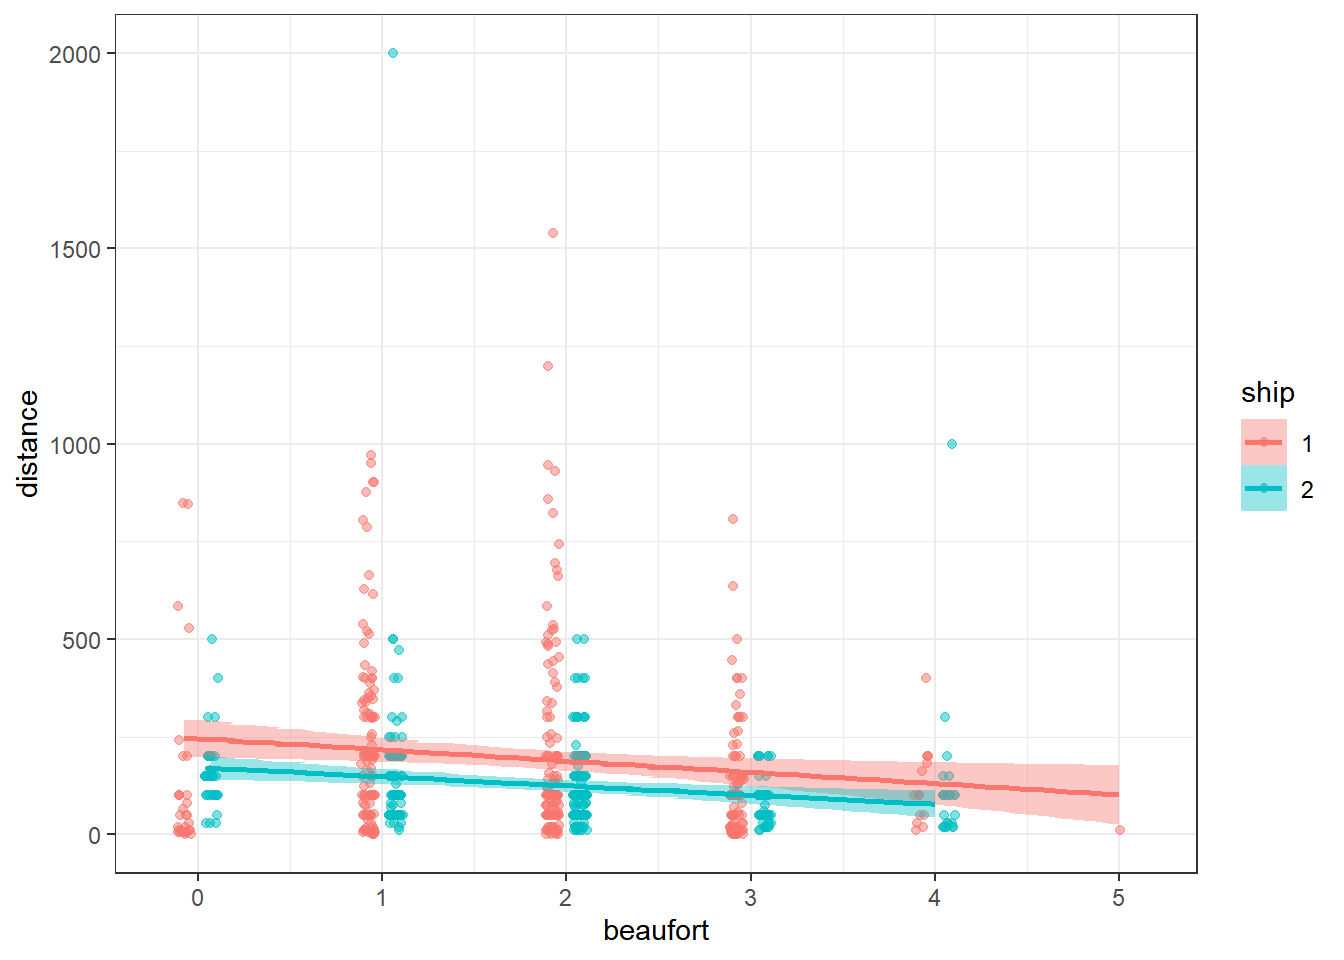
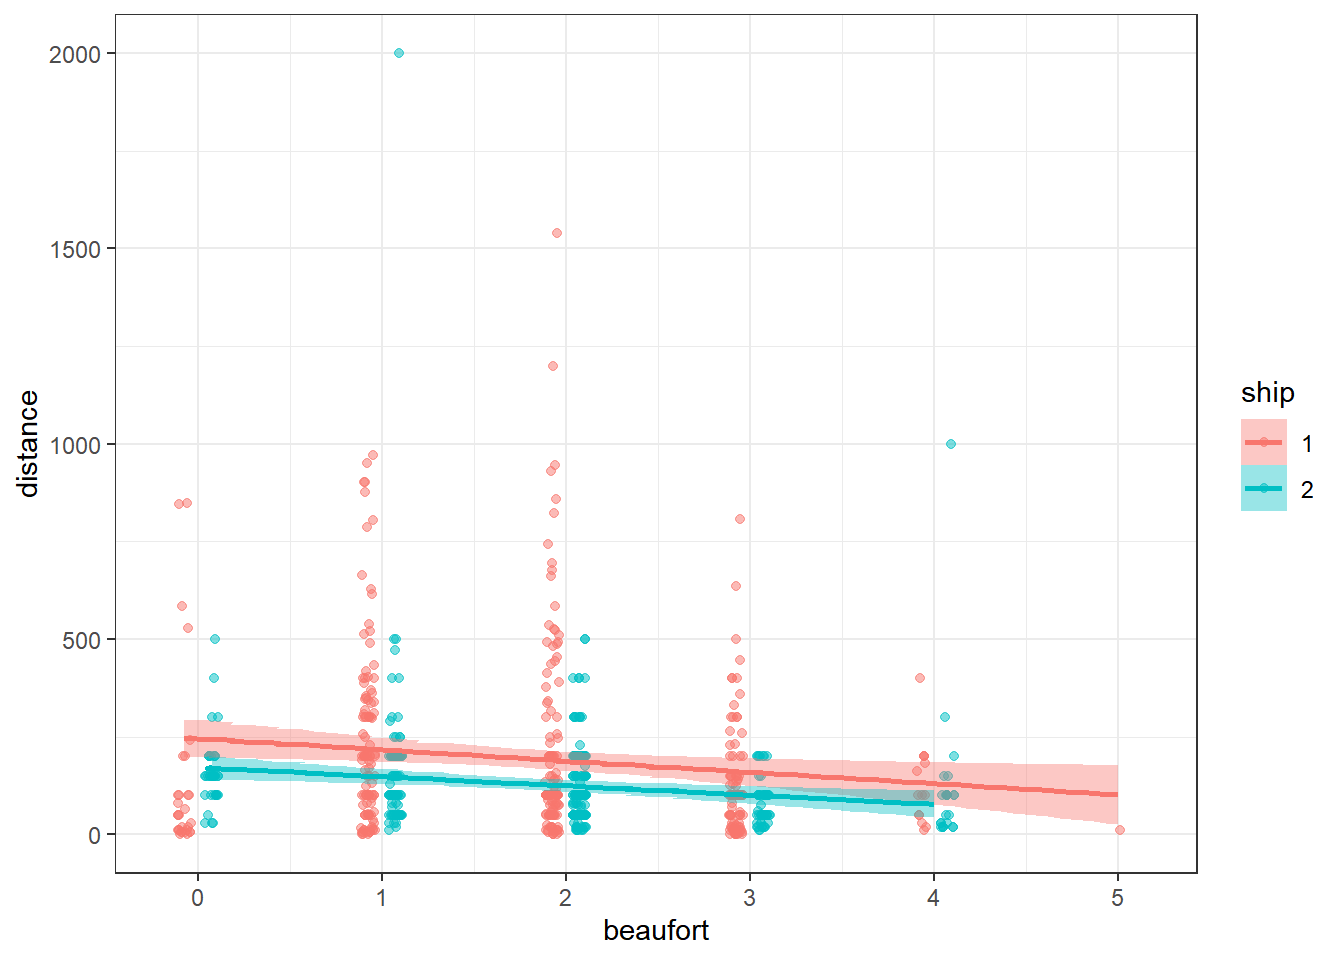
html report

diff --git a/docs/VariablesAmbientales.html b/docs/VariablesAmbientales.html
@@ -120,9 +120,8 @@ ul.task-list li input[type="checkbox"] {
     <h2 id="toc-title">On this page</h2>
    
   <ul>
-  <li><a href="#mapa-del-área-en-contexto" id="toc-mapa-del-área-en-contexto" class="nav-link active" data-scroll-target="#mapa-del-área-en-contexto"><span class="header-section-number">1</span> Mapa del área en contexto</a></li>
-  <li><a href="#escala-período" id="toc-escala-período" class="nav-link" data-scroll-target="#escala-período"><span class="header-section-number">2</span> Escala: período</a></li>
-  <li><a href="#escala-estacional" id="toc-escala-estacional" class="nav-link" data-scroll-target="#escala-estacional"><span class="header-section-number">3</span> Escala estacional</a></li>
+  <li><a href="#escala-período" id="toc-escala-período" class="nav-link active" data-scroll-target="#escala-período"><span class="header-section-number">1</span> Escala: período</a></li>
+  <li><a href="#escala-estacional" id="toc-escala-estacional" class="nav-link" data-scroll-target="#escala-estacional"><span class="header-section-number">2</span> Escala estacional</a></li>
   </ul>
 </nav>
     </div>
@@ -155,16 +154,14 @@ ul.task-list li input[type="checkbox"] {
 <li><u>Invierno</u>: Julio, Agosto, Septiembre</li>
 <li><u>Primavera</u>: Octubre, Noviembre, Diciembre</li>
 </ul>
-<section id="mapa-del-área-en-contexto" class="level1" data-number="1">
-<h1 data-number="1"><span class="header-section-number">1</span> Mapa del área en contexto</h1>
+<p>Mapa del área en contexto</p>
 <div class="cell">
 <div class="cell-output-display">
 <p><img src="VariablesAmbientales_files/figure-html/unnamed-chunk-2-1.png" class="img-fluid" width="672"></p>
 </div>
 </div>
-</section>
-<section id="escala-período" class="level1" data-number="2">
-<h1 data-number="2"><span class="header-section-number">2</span> Escala: período</h1>
+<section id="escala-período" class="level1" data-number="1">
+<h1 data-number="1"><span class="header-section-number">1</span> Escala: período</h1>
 <div class="cell">
 <div class="cell-output-display">
 <p><img src="VariablesAmbientales_files/figure-html/unnamed-chunk-3-1.png" class="img-fluid" width="672"></p>
@@ -181,8 +178,8 @@ ul.task-list li input[type="checkbox"] {
 </div>
 </div>
 </section>
-<section id="escala-estacional" class="level1" data-number="3">
-<h1 data-number="3"><span class="header-section-number">3</span> Escala estacional</h1>
+<section id="escala-estacional" class="level1" data-number="2">
+<h1 data-number="2"><span class="header-section-number">2</span> Escala estacional</h1>
 <div class="cell">
 <div class="cell-output-display">
 <p><img src="VariablesAmbientales_files/figure-html/unnamed-chunk-6-1.png" class="img-fluid" width="672"></p>

diff --git a/docs/DelfinesOscuros.html b/docs/DelfinesOscuros.html
@@ -500,9 +500,8 @@ Quizás sea efecto del observador en lugar de embarcación, pero no lo podemos d
 </div>
 </div>
 </section>
-<section id="gradiente" class="level4" data-number="2.3.1.3">
-<h4 data-number="2.3.1.3" class="anchored" data-anchor-id="gradiente"><span class="header-section-number">2.3.1.3</span> Gradiente</h4>
-<p>(No estoy seguro que es esta variable)</p>
+<section id="gradiente-de-temperatura-superficial" class="level4" data-number="2.3.1.3">
+<h4 data-number="2.3.1.3" class="anchored" data-anchor-id="gradiente-de-temperatura-superficial"><span class="header-section-number">2.3.1.3</span> Gradiente de temperatura superficial</h4>
 <p>No parece infuenciar la deteccion de animales</p>
 <div class="cell">
 <div class="cell-output-display">
@@ -534,9 +533,8 @@ Quizás sea efecto del observador en lugar de embarcación, pero no lo podemos d
 </div>
 </div>
 </section>
-<section id="dist.up" class="level4" data-number="2.3.2.3">
-<h4 data-number="2.3.2.3" class="anchored" data-anchor-id="dist.up"><span class="header-section-number">2.3.2.3</span> dist.up</h4>
-<p>(No estoy seguro que es)</p>
+<section id="distancia-a-upwellings" class="level4" data-number="2.3.2.3">
+<h4 data-number="2.3.2.3" class="anchored" data-anchor-id="distancia-a-upwellings"><span class="header-section-number">2.3.2.3</span> Distancia a upwellings</h4>
 <div class="cell">
 <div class="cell-output-display">
 <p><img src="DelfinesOscuros_files/figure-html/unnamed-chunk-17-1.png" class="img-fluid" width="1056"></p>

diff --git a/docs/DelfinesComunes.html b/docs/DelfinesComunes.html
@@ -571,9 +571,8 @@ Considerar si descartar Beaufort = 4</p>
 </div>
 </div>
 </section>
-<section id="dist.up" class="level4" data-number="2.3.2.3">
-<h4 data-number="2.3.2.3" class="anchored" data-anchor-id="dist.up"><span class="header-section-number">2.3.2.3</span> dist.up</h4>
-<p>(No estoy seguro que es)</p>
+<section id="distancia-a-upwellings" class="level4" data-number="2.3.2.3">
+<h4 data-number="2.3.2.3" class="anchored" data-anchor-id="distancia-a-upwellings"><span class="header-section-number">2.3.2.3</span> Distancia a upwellings</h4>
 <div class="cell">
 <div class="cell-output-display">
 <p><img src="DelfinesComunes_files/figure-html/unnamed-chunk-17-1.png" class="img-fluid" width="1056"></p>
@@ -951,7 +950,9 @@ Conclusión: no utilizar embarcación como covariable.</p>
 <h2 data-number="3.7" class="anchored" data-anchor-id="conclusión-of-función-de-detección"><span class="header-section-number">3.7</span> Conclusión of función de detección</h2>
 <p>Truncar en <code>trunc.dist_dd</code>: 300m - esto descarta 49 datos (~ 6.8% de los datos)</p>
 <p>cutpoints: <code>cutpoints_dd</code>: 0, 25, 75, 125, 175, 225, 275, 300</p>
-<p>Hazard rate No adjustment term Covariate: Beaufort state</p>
+<p>Hazard rate&nbsp;<br>
+No adjustment term<br>
+Covariate: Beaufort state</p>
 <div class="cell">
 <div class="cell-output-display">
 <p><img src="DelfinesComunes_files/figure-html/unnamed-chunk-36-1.png" class="img-fluid" width="672"></p>
